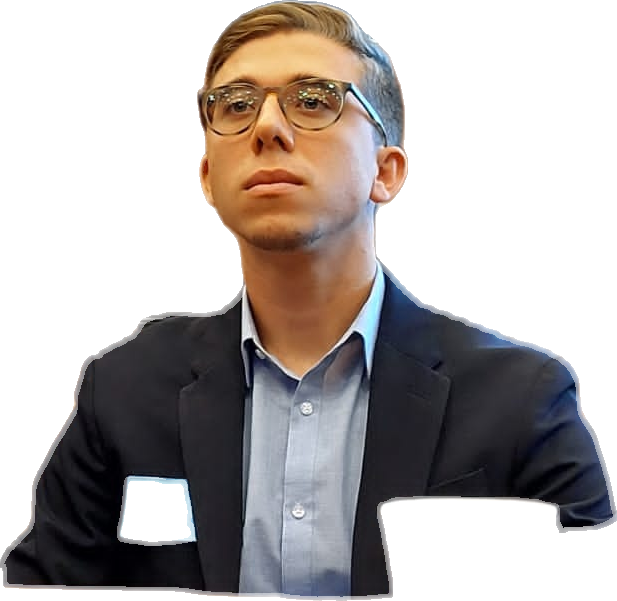
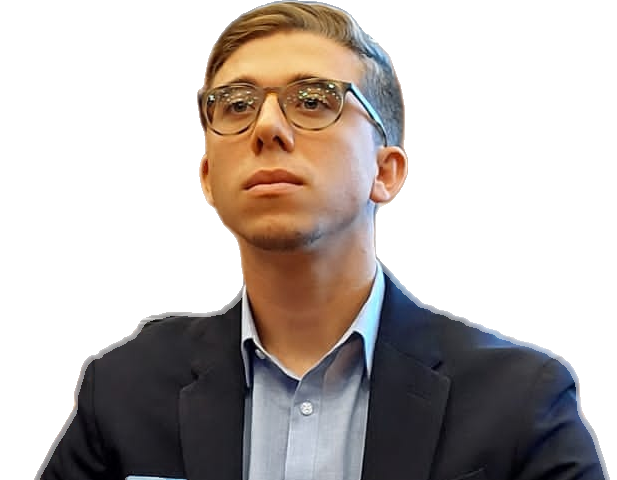
faccia.py: copertine e intro dei reel con il volto di Andrea per tutte le rubriche
Claude-Session: https://claude.ai/code/session_014PQd5y3wUwADFChvS9BjJ1

diff --git a/faccia.py b/faccia.py
@@ -1,0 +1,124 @@
+#!/usr/bin/env python3
+"""THE LOBBY - «faccia prima» per tutte le rubriche (decisione di Andrea del 24 ottobre 2026).
+
+Ogni contenuto mostra il volto di Andrea con 1-2 parole grandi accanto che richiamano il concetto; la
+spiegazione viene dopo (le slide successive, la didascalia o il resto del reel). Questo script sceglie da solo
+la foto giusta della libreria (volto/libreria/indice.json) in base alla rubrica, evita di ripetere la stessa foto
+dei giorni precedenti, impagina e salva l'uso in volto/uso.json.
+
+Uso: python3 faccia.py lavoro.json
+lavoro.json:
+{
+  "mode": "post",              # "post": immagine 1080x1350 da mettere PRIMA della grafica della rubrica
+                               #         (o al posto della copertina 01.png di un carosello)
+                               # "reel": 2,5 s con il volto e le parole messi DAVANTI al reel già pronto
+                               #         + copertina 1080x1920
+  "rubrica": "opportunita",    # opportunita | lezioni | ritratti | lo-sapevi | pillole | quiz | founder |
+                               # presentazione | attualita
+  "words": ["VIAGGI", "GRATIS"],   # 1 o 2 parole, max ~10 lettere l'una, in maiuscolo: il concetto in un colpo d'occhio
+  "kicker": "Opportunità",     # facoltativo, etichetta piccola (max ~22 caratteri)
+  "sub": "3 bandi con le spese coperte dagli enti",   # facoltativo, una riga (max ~45 caratteri)
+  "swipe": true,               # facoltativo (post): freccia «Scorri» quando dopo ci sono altre immagini
+  "card": {...},               # facoltativo (ritratti): foto del personaggio, vedi make_face.py
+  "video": "reels/2026-10-28.mp4",   # solo mode reel: il reel già pronto (grafico o cinematografico)
+  "out": "posts/2026-10-27-faccia.png" # post: il PNG; reel: l'MP4 finale (scrive anche <out>-cover.jpg)
+}
+Stampa la foto scelta. Controlla SEMPRE il risultato con Read (e per il reel 2 fotogrammi: -ss 1 e -ss 4).
+"""
+import datetime
+import json
+import os
+import subprocess
+import sys
+import tempfile
+
+HERE = os.path.dirname(os.path.abspath(__file__))
+LIB = os.path.join(HERE, "volto", "libreria")
+USO = os.path.join(HERE, "volto", "uso.json")
+
+# rubrica -> foto preferite, in ordine (se non c'è nulla di adatto si usa la rotazione su tutte le «alta»)
+FALLBACK = ["sorriso-2", "sicuro-1", "sorriso-4"]
+
+
+def load(p, default):
+    try:
+        with open(p, encoding="utf-8") as fh:
+            return json.load(fh)
+    except Exception:
+        return default
+
+
+def choose(rubrica):
+    idx = load(os.path.join(LIB, "indice.json"), {}).get("foto", {})
+    uso = load(USO, [])
+    recent = [u["foto"] for u in uso[-2:]]
+    cands = [k for k, v in idx.items() if rubrica in v.get("rubriche", [])]
+    if not cands:
+        cands = [k for k, v in idx.items() if v.get("qualita") == "alta"] or FALLBACK
+    # la meno usata di recente tra le adatte, mai la stessa delle ultime due uscite se c'è alternativa
+    last_use = {k: -1 for k in cands}
+    for i, u in enumerate(uso):
+        if u["foto"] in last_use:
+            last_use[u["foto"]] = i
+    order = sorted(cands, key=lambda k: (k in recent, last_use[k]))
+    return order[0]
+
+
+def record(foto, job):
+    uso = load(USO, [])
+    uso.append({"data": datetime.date.today().isoformat(), "rubrica": job.get("rubrica"), "mode": job.get("mode"),
+                "foto": foto, "words": job.get("words"), "out": job.get("out")})
+    with open(USO, "w", encoding="utf-8") as fh:
+        json.dump(uso[-400:], fh, ensure_ascii=False, indent=1)
+
+
+def face_data(job, foto, fmt):
+    meta = load(os.path.join(LIB, foto + ".json"), {})
+    d = {"format": fmt, "face": os.path.join(LIB, foto + ".png"), "words": job["words"][:2]}
+    for k in ("kicker", "sub", "swipe", "card"):
+        if job.get(k):
+            d[k] = job[k]
+    d.update(meta.get("layout", {}))
+    if job.get("card"):  # con la cornice del ritratto Andrea sta sempre a destra, a grandezza normale
+        for k in ("face_h", "face_x", "face_shift", "words_y"):
+            d.pop(k, None)
+        d["side"] = "right"
+    return d
+
+
+def run(job):
+    sys.path.insert(0, HERE)
+    import make_face
+    foto = choose(job.get("rubrica", ""))
+    out = os.path.join(HERE, job["out"]) if not os.path.isabs(job["out"]) else job["out"]
+    os.makedirs(os.path.dirname(out) or ".", exist_ok=True)
+    if job.get("mode", "post") == "post":
+        make_face.make(face_data(job, foto, "post"), out)
+    else:
+        import make_face_reel
+        video = job["video"] if os.path.isabs(job["video"]) else os.path.join(HERE, job["video"])
+        tmp = tempfile.mkdtemp()
+        intro = os.path.join(tmp, "intro.mp4")
+        make_face_reel.run({"face": os.path.join(LIB, foto + ".png"), "words": job["words"][:2],
+                            "kicker": job.get("kicker"), "duration": float(job.get("intro", 2.5)), "endcard": False},
+                           intro)
+        norm = "fps=30,scale=1080:1920:force_original_aspect_ratio=decrease,pad=1080:1920:(ow-iw)/2:(oh-ih)/2:color=0x111C35,setsar=1,format=yuv420p"
+        subprocess.run(["ffmpeg", "-loglevel", "error", "-y", "-i", intro, "-i", video, "-filter_complex",
+                        f"[0:v]{norm}[v0];[1:v]{norm}[v1];[0:a]aresample=44100,aformat=channel_layouts=stereo[a0];"
+                        f"[1:a]aresample=44100,aformat=channel_layouts=stereo[a1];[v0][a0][v1][a1]concat=n=2:v=1:a=1[v][a]",
+                        "-map", "[v]", "-map", "[a]", "-c:v", "libx264", "-preset", "medium", "-crf", "20",
+                        "-c:a", "aac", "-b:a", "160k", "-movflags", "+faststart", out], check=True)
+        cover = out[:-4] + "-cover.jpg"
+        png = os.path.join(tmp, "cover.png")
+        make_face.make(face_data(job, foto, "reel"), png)
+        from PIL import Image
+        Image.open(png).convert("RGB").save(cover, "JPEG", quality=92)
+        print("copertina", cover)
+    record(foto, job)
+    print("ok", out, "foto:", foto)
+    return out
+
+
+if __name__ == "__main__":
+    with open(sys.argv[1], encoding="utf-8") as fh:
+        run(json.load(fh))

diff --git a/make_face_reel.py b/make_face_reel.py
@@ -173,7 +173,8 @@ def run(data, out):
         scene = photo_scene(data["face"])
     caps = data.get("captions") or (chunks_from_script(data["script"], dur) if data.get("script") else [])
     cap_layers = [(c["t"], c["e"], caption_layer(c["text"])) for c in caps]
-    total = dur + END
+    end_len = END if data.get("endcard", True) else 0.0   # l'intro dei reel esistenti non ha la chiusura
+    total = dur + end_len
     n = int(total * FPS)
     tmp = out[:-4] + ".noaudio.mp4"
     enc = subprocess.Popen(["ffmpeg", "-loglevel", "error", "-y", "-f", "rawvideo", "-pix_fmt", "rgb24", "-s", f"{W}x{H}",
@@ -245,7 +246,7 @@ def run(data, out):
         dec.stdout.close()
         dec.wait()
         subprocess.run(["ffmpeg", "-loglevel", "error", "-y", "-i", tmp, "-ss", f"{t0:.2f}", "-i", video, "-map", "0:v", "-map", "1:a?",
-                        "-c:v", "copy", "-c:a", "aac", "-b:a", "160k", "-af", f"apad=pad_dur={END}", "-t", f"{total:.2f}", out], check=True)
+                        "-c:v", "copy", "-c:a", "aac", "-b:a", "160k", "-af", f"apad=pad_dur={end_len}", "-t", f"{total:.2f}", out], check=True)
     else:
         wav = out[:-4] + ".wav"
         subprocess.run([sys.executable, os.path.join(HERE, "cinema", "music_epic.py"), wav, str(int(total) + 1)], check=True)

diff --git a/ritratti/README.md b/ritratti/README.md
@@ -107,10 +107,17 @@ Finita la lista, si ricomincia con nomi nuovi scelti con le stesse regole (mai l
      o una equivalente;
    - `cta`: {"title": "Inizia da qui.", "text": "Lezioni da 5 minuti, quiz e certificato. Gratis."};
    - `source`: «Fonti: ...» con le fonti usate.
-   Esegui `python3 make_carousel.py data/ritratto-<data>.json posts/ritratti/<data>/` e apri TUTTE le slide con
-   Read: volto ben inquadrato e non coperto dal testo, niente testo tagliato, credito della foto leggibile in
-   copertina, l'ultima slide mostra le tre promesse.
-5. **Mai** immagini o video generati con l'IA che ritraggano persone reali, mai loghi o simboli di partito messi
+   Esegui `python3 make_carousel.py data/ritratto-<data>.json posts/ritratti/<data>/`.
+   **Copertina «faccia prima»** (decisione di Andrea del 24 ottobre 2026): la copertina 01.png si rifà con il volto
+   di Andrea che presenta la foto del personaggio. Crea `data/faccia-<data>.json` =
+   `{"mode": "post", "rubrica": "ritratti", "words": ["PRIMA", "MINISTRA"], "kicker": "Ritratto della settimana",
+   "card": {"photo": "posts/ritratti/<data>/foto-N.jpg", "label": "<nome e cognome>", "credit": "<photo_credit>",
+   "focus_x": 0.5, "focus_y": 0.3, "zoom": 1.4}, "swipe": true, "out": "posts/ritratti/<data>/01.png"}` (le 1-2
+   parole, max 10 lettere l'una, dicono il primato o il ruolo in modo vero; `focus_x`/`focus_y` = dove sta il volto
+   del personaggio nella sua foto, da 0 a 1) ed esegui `python3 faccia.py data/faccia-<data>.json`.
+   Apri TUTTE le slide con Read: in copertina il volto del personaggio ben inquadrato nella cornice, il suo nome e il
+   credito della foto leggibili, Andrea ben visibile; niente testo tagliato; l'ultima slide mostra le tre promesse.
+5. **Mai** immagini o video generati con l'IA che ritraggano persone reali (nemmeno Andrea: di lui solo le foto vere di `volto/libreria/`), mai loghi o simboli di partito messi
    in evidenza dalla grafica, mai foto con licenze NC, ND o senza licenza.
 6. **Didascalia:** il gancio; 2-3 righe sulla carriera; la riga fissa «Ogni settimana un ritratto: carriere di
    ogni colore politico, raccontate non per le idee ma per il percorso. Perché nessuno arriva lì per caso 💪»;
@@ -119,7 +126,8 @@ Finita la lista, si ricomincia con nomi nuovi scelti con le stesse regole (mai l
    giovani di talento. Tutto gratis.»; «Entra dal link in bio 👆 o su thelobbyitalia.it»; un invito a salvare o
    condividere; «Fonti: ...»; «Foto: <autore>, <licenza>, via Wikimedia Commons (ritagliata). La persona ritratta
    non ha legami con THE LOBBY.»; esattamente 5 hashtag (#thelobby #ritratti più 3, tra cui il nome della persona).
-7. **GitHub:** aggiungi la voce a `history-ritratti.json` e fai commit e push di dati, slide, foto e storico.
+7. **GitHub:** aggiungi la voce a `history-ritratti.json` e fai commit e push di dati, slide, foto, storico,
+   `data/faccia-<data>.json` e `volto/uso.json`.
 8. **Metricool:** un post Instagram + Facebook di tipo POST con tutte le slide in ordine (diventa un carosello),
    `isAiGenerated` false, `mediaAltText` una descrizione per slide. Negli indirizzi delle slide usa il commit appena
    pubblicato al posto di `main` (`https://raw.githubusercontent.com/Bonni-Data/the-lobby-posts/<sha del commit>/posts/ritratti/<data>/01.png`),

diff --git a/README.md b/README.md
@@ -28,3 +28,10 @@ Le tre frasi stanno in `make_pill.py` (`PROMISE`, `PROMISE_LINE`) e i generatori
 - reel grafico (`make_reel.py`) e reel cinematografico (`cinema/render_assets.py`): schermata finale con le tre promesse.
 
 Per cambiarle, modifica solo `PROMISE` e `PROMISE_LINE`.
+
+## Faccia prima (dal 24 ottobre 2026)
+
+Ogni contenuto mostra il volto di Andrea con 1-2 parole grandi accanto: `faccia.py` (legge `volto/libreria/`,
+sceglie la foto per rubrica, registra l'uso in `volto/uso.json`). Post singoli → carosello di 2 immagini
+(prima la faccia, poi la grafica della rubrica); caroselli e ritratti → la copertina 01.png diventa quella con la
+faccia; reel → 2,5 secondi con la faccia davanti al reel e copertina con la faccia. Dettagli in `volto/README.md`.
